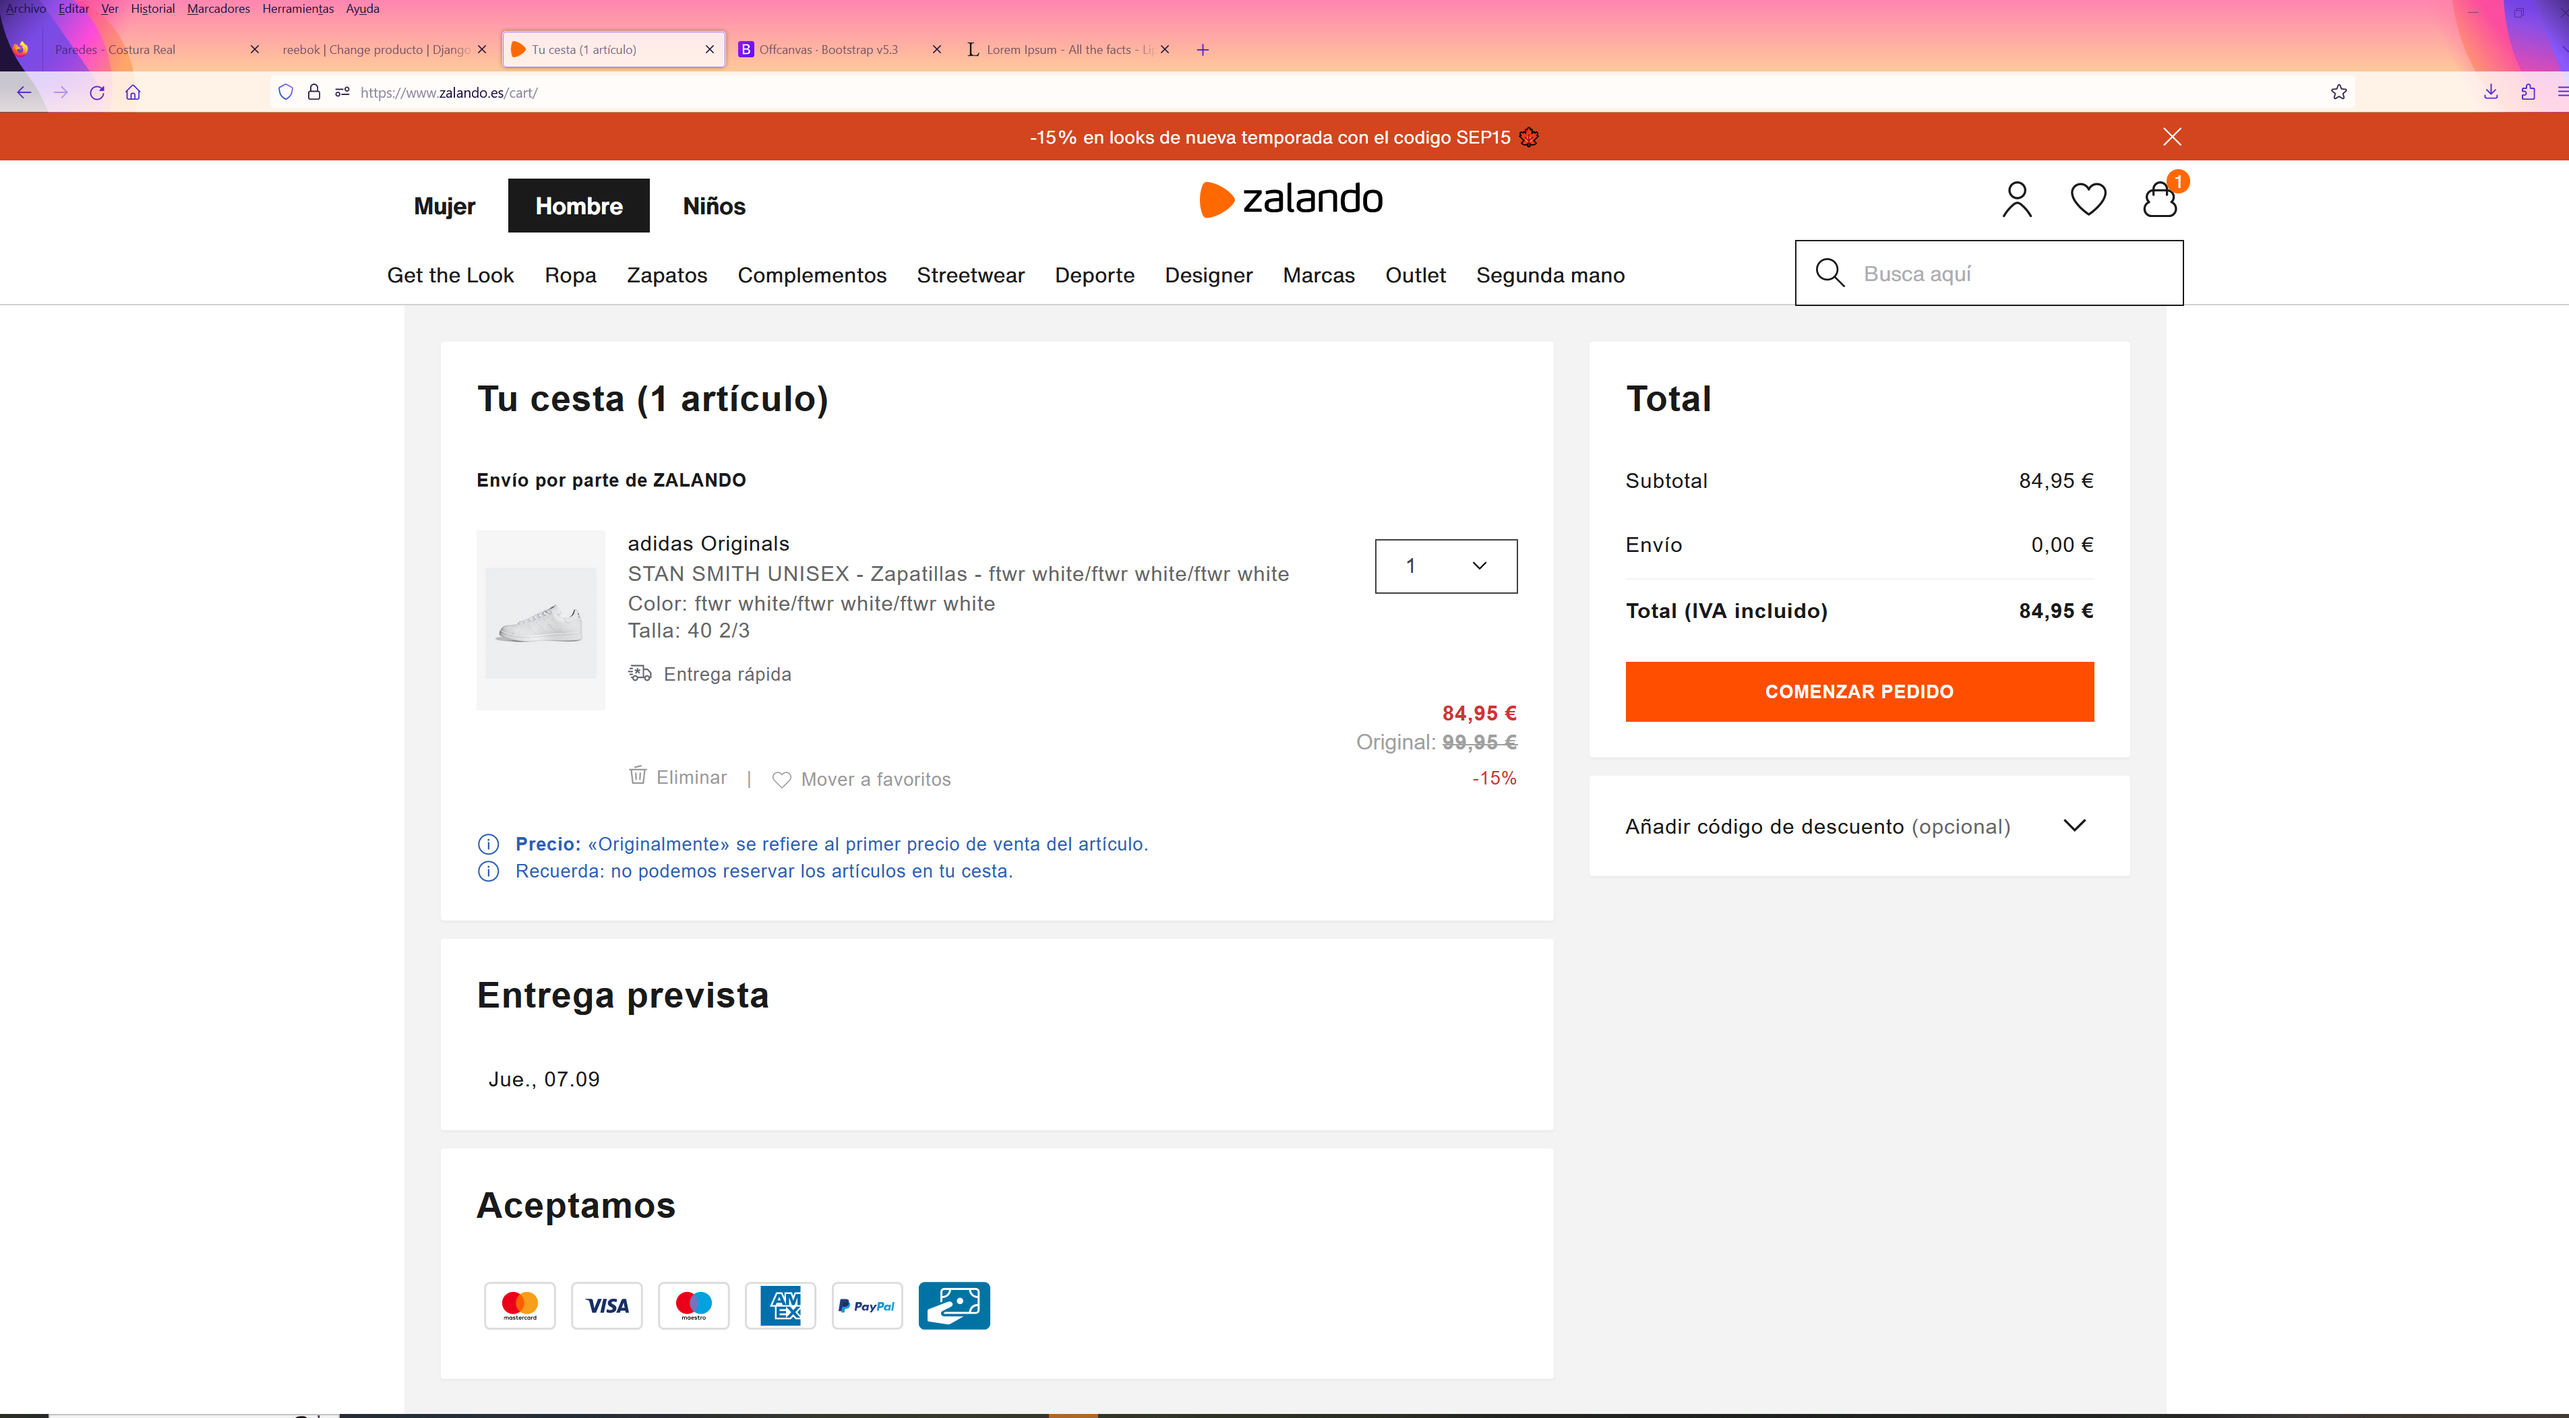
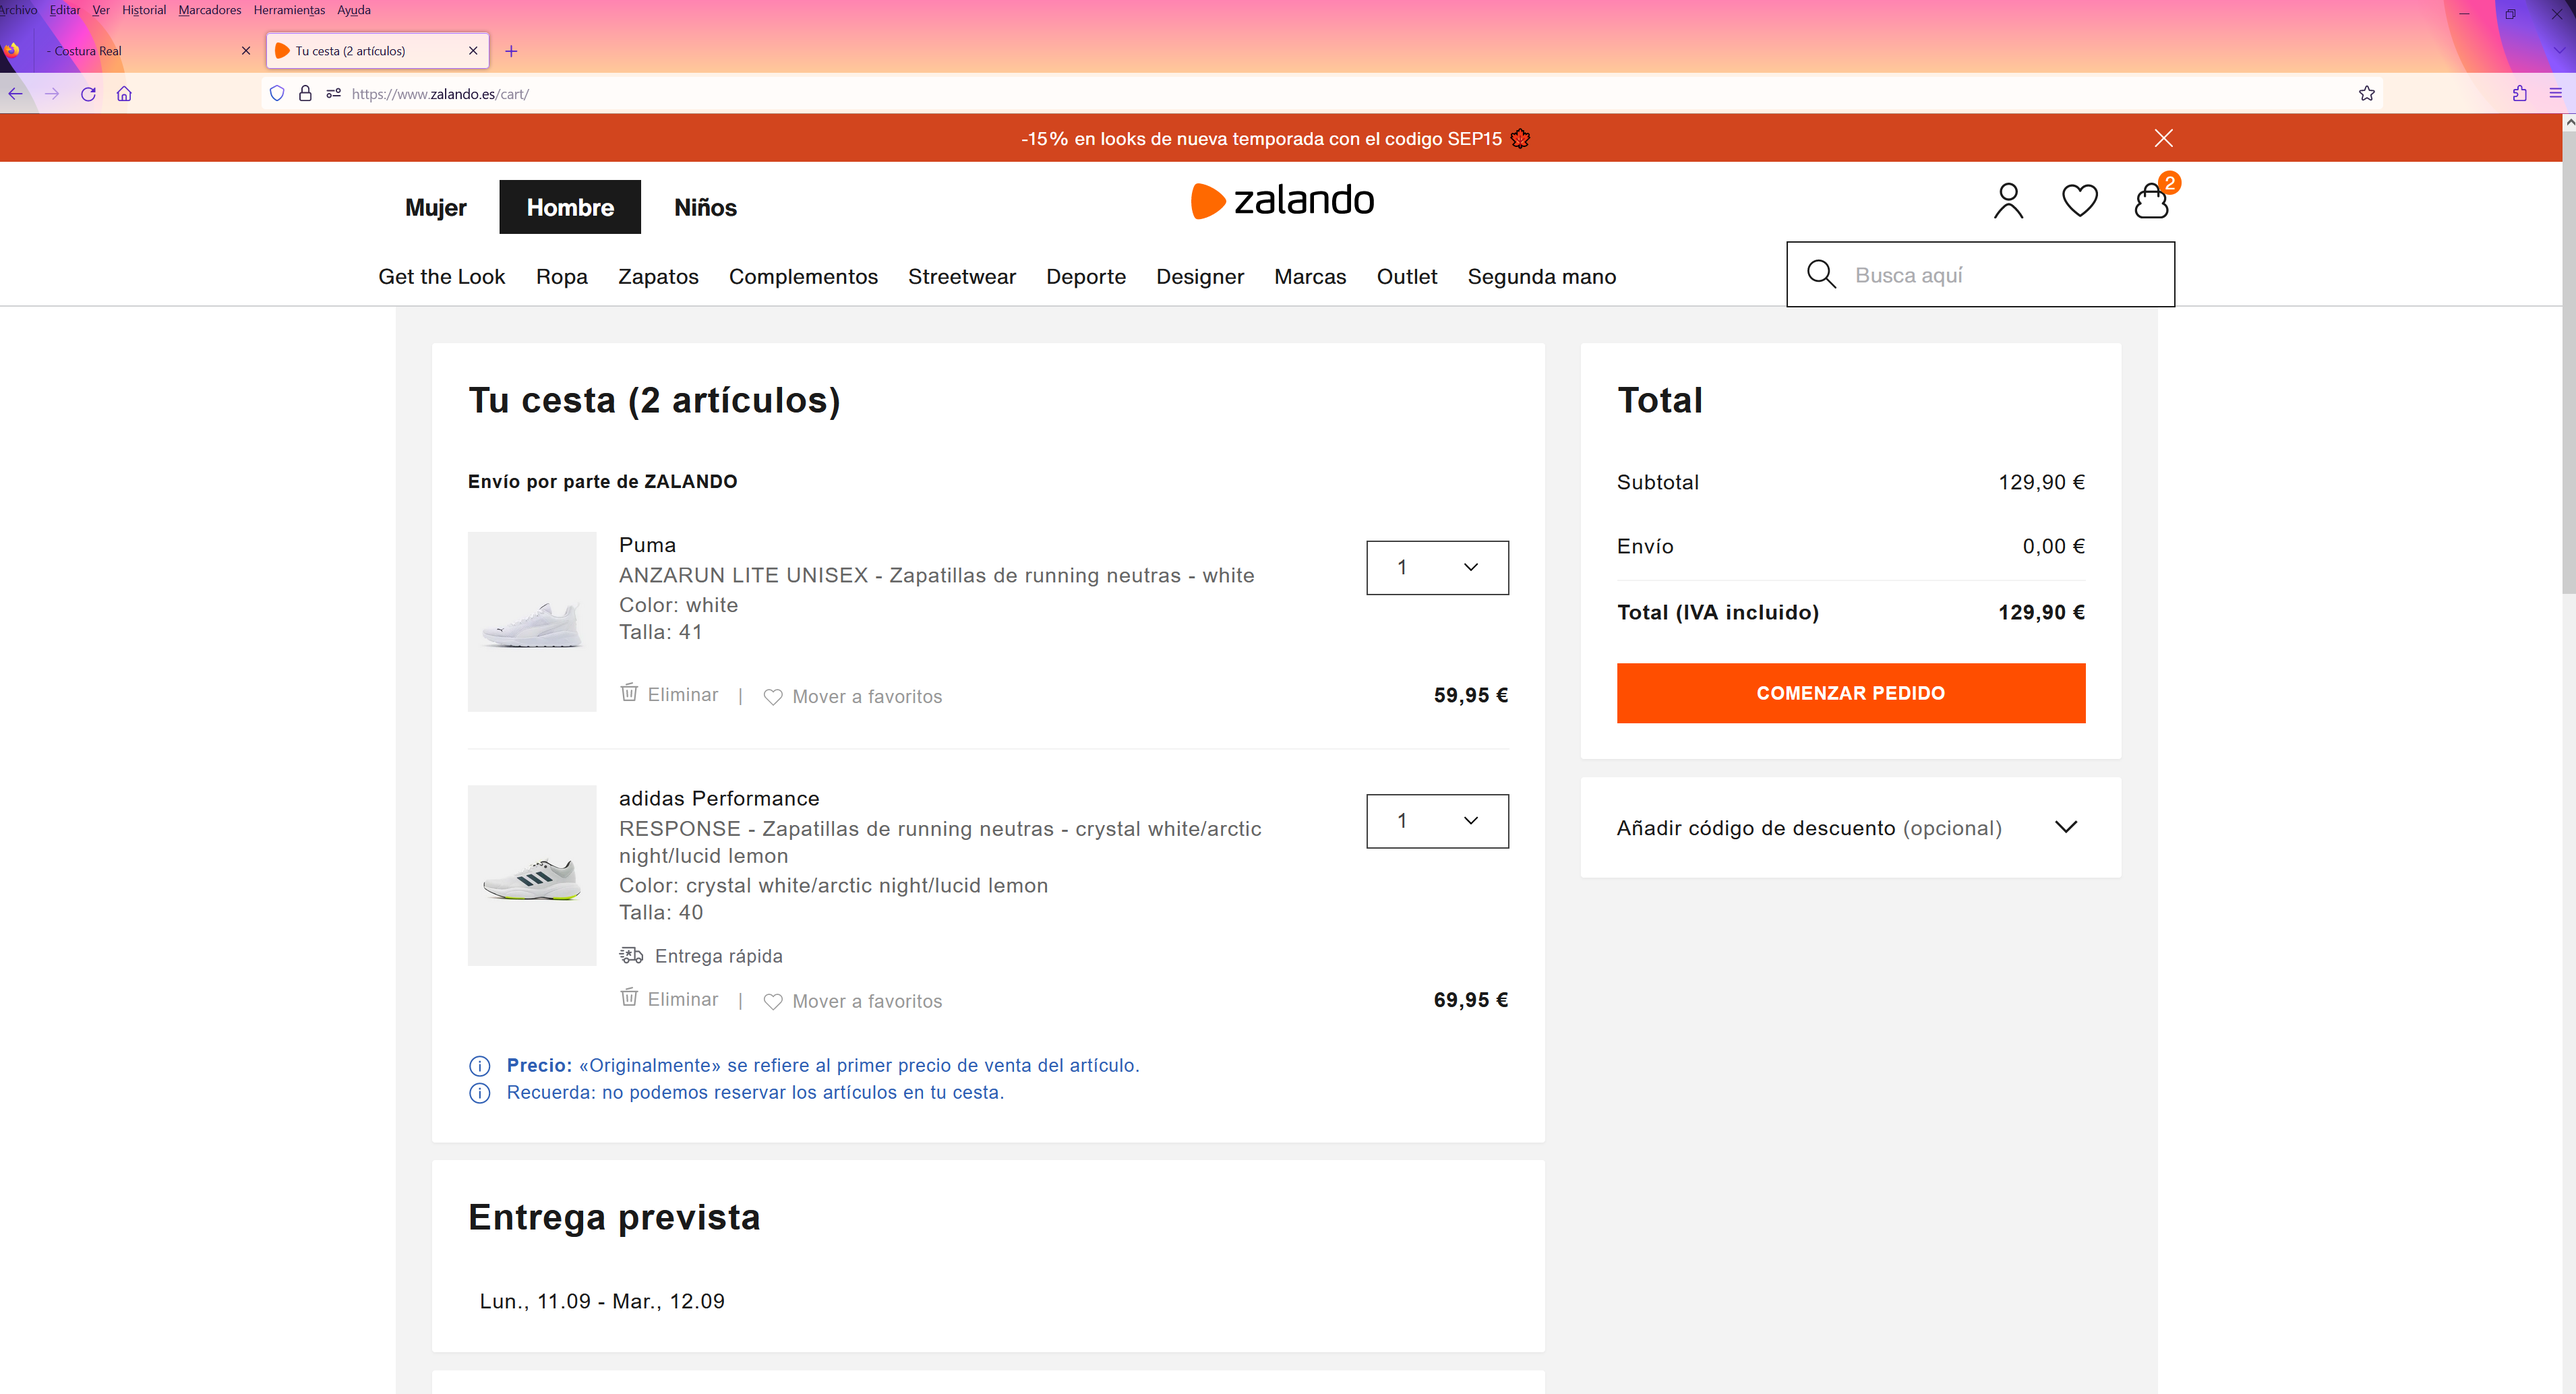
configuro template vista del carro

diff --git a/templates/carros/vista.html b/templates/carros/vista.html
@@ -1,14 +1,136 @@
 {% extends 'base.html' %}
+{% load static %}
 
 {% block title %}{% endblock title %}
 
 {% block content %}
-    <h1>Carro</h1>
-    {% for item in carro.productos.all %}
-        {{item}}
-        {{item.precio}}
-        <br>
-    {% endfor %}
+  
+    <div class="row" style="margin: 10px;">
+        
+        <div class="col-8">
+            
+            <div class="card mb-3" style="max-width: 840px;">
+                <div class="row g-0">
+                    <h1 style="margin: 10px;">Tu cesta tiene </h1>
+                    {% for item in carro.productos.all %}
+                        <div class="col-md-2">
+                            {% if item.productoimagen_set.fotoActivaPresentada %}
+                                {% for imagen in item.productoimagen_set.fotoActivaPresentada %}
+                                    <img src="{{imagen.imagen.url}}" class="img-thumbnail" alt="{{item.titulo}}" 
+                                                width="200px" height="400px" style="margin: 10px;">
+                                {% endfor %}
+                            {% else %}
+                                <img src="{% static 'img/placeholder.png' %}" class="img-fluid rounded-start" alt="">
+                            {% endif %}
+                        </div>
+                        
+                        <div class="col-md-10">
+                            <div class="card-body">
+                                <table class="table table-borderless table-sm">
+                                    <tbody>
+                                    <tr>
+                                        <td><b>{{item.titulo|title}}</b></td>
+                                        <td></td>
+                                        <td></td>
+                                    </tr>
+                                    <tr>
+                                        <td>{{item.descripcion|truncatewords:8}}</td>
+                                        <td></td>
+                                        <td></td>
+                                    </tr>
+                                    <tr>
+                                        <td>Color: rojo</td>
+                                        <td></td>
+                                        <td></td>
+                                    </tr>
+                                    <tr>
+                                        
+                                        <td>Talla: 43</td>
+                                        <td></td>
+                                        <td></td>
+                                    </tr>
+                                    <tr>
+                                        
+                                        <td>Entrega rápida:</td>
+                                        <td></td>
+                                        <td></td>
+                                    </tr>
+                                    <tr>
+                                        
+                                        <td>Eliminar</td>
+                                        <td>Mover a favoritos</td>
+                                        <td><b>{{item.precio}}</b></td>
+                                    </tr>
+                                    </tbody>
+                                </table>
+
+                            </div>
+                        </div>
+                        <hr/>
+                    {% endfor %}
+                    
+                </div>
+            </div>
+            
+        </div>
+        
+        <div class="col-4">
+            <div class="card mb-3" style="max-width: 540px;">
+                <h1 style="margin: 10px;">Total</h1>
+                <table class="table table-borderless" style="margin: 10px;">
+                    
+                    <tbody>
+                        <tr>
+                            <td>Subtotal</td>
+                            <th scope="col"></th>
+                            <th scope="col"></th>
+                            <td scope="col">29,99 €</td>
+                        </tr>
+                    </tbody>
+                    <tbody>
+                        <tr>
+                            <td>Envío</td>
+                            <th scope="col"></th>
+                            <th scope="col"></th>
+                            <td scope="col">0,00 €</td>
+                            
+                        </tr>
+                    
+                    </tbody>
+
+                    <tbody> 
+                        <tr>
+                            <th scope="col">Total (IVA incluido)</th>
+                            <th scope="col"></th>
+                            <th scope="col"></th>
+                            <th scope="col">29,99 €</th>
+
+                        </tr>
+
+                    </tbody>
+                    <tbody>
+                        <tr>
+                            <td colspan="4">
+                                <div class="d-grid gap-2 col-11 mx-auto">
+
+                                    <button type="button" class="btn btn-primary btn-lg">Comenzar pedido</button>
+                                </div>
+                            </td>
+                        </tr>
+                    </tbody>
+
+                </table>
+
+                
+            </div>
+        </div>
+
+    </div>
+
+  
+        
+
+    
 {% endblock content %}
 
 {% block javascript/jquery %}{% endblock javascript/jquery %}

diff --git a/carro/models.py b/carro/models.py
@@ -10,4 +10,4 @@ class Carro(models.Model):
     activo = models.BooleanField(default=True)
 
     def __str__(self):
-        return f"Carro id: {self.titulo}"
+        return f"Carro id: {self.id}"
